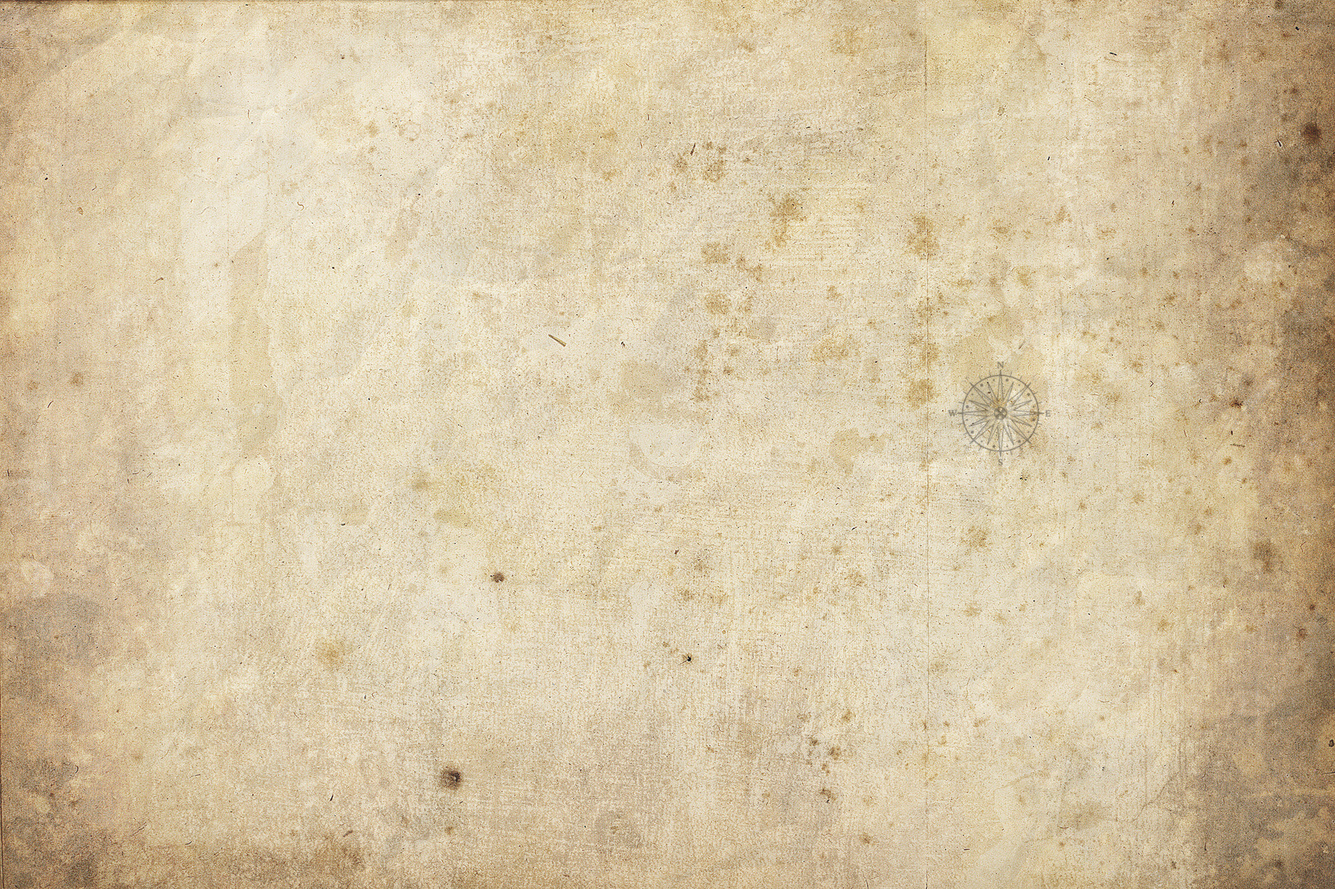
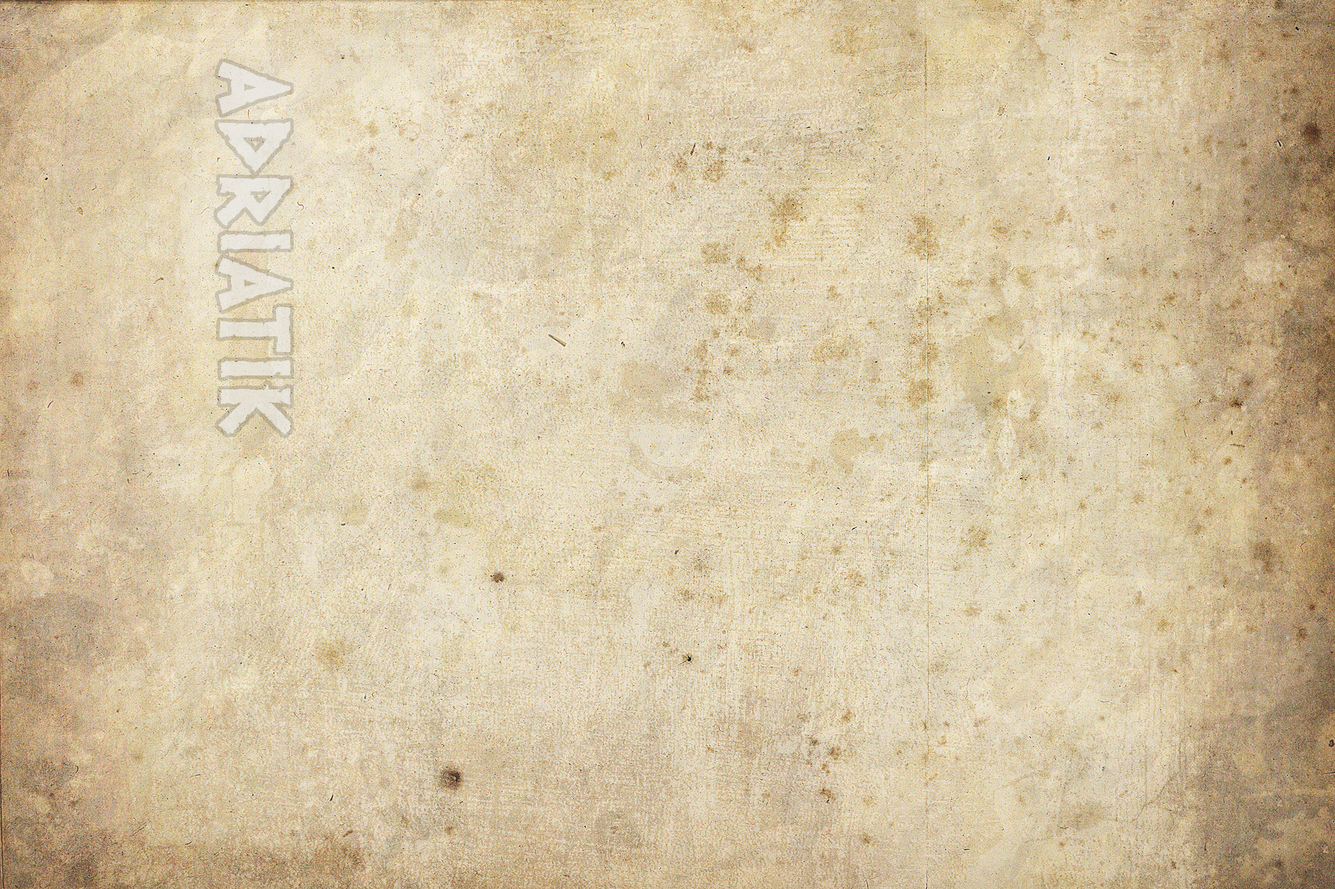
update global design

Changed region(s): [[0.155, 0.0615, 0.217, 0.4921], [0.713, 0.3998, 0.775, 0.5229]]

diff --git a/src/app/components/bidPanel/bidPanel.html b/src/app/components/bidPanel/bidPanel.html
@@ -1,27 +1,35 @@
 <div class="bidPanel">
-  <div>phase : {{game.phase}}</div>
-  <div ng-repeat="player in noBidPlayers()">{{player.name}}</div>
-  <div class="separator"></div>
-  <div ng-repeat="god in game.currentGods"
-       class="{{god.name}} god god-{{god.color}}"
-       ng-click="onGodClick(god)"
-    >
-    <div class="god-avatar">{{god.name}}</div>
-    <div ng-show="god !== God.Apollon">joueur : {{game.getPlayer(god).name}}{{god.bid ? ', '+god.bid.gold+' pièces' : ''}}</div>
-    <div ng-show="god === God.Apollon">joueurs : {{god.playerNames.join(', ')}}</div>
-  </div>
-  <div ng-show="god">
-    <div>Valeur d'enchère</div>
-    <div ng-repeat="value in getBidValues()" ng-click="placeBid(value)" class="bid-value coin">{{value}}</div>
-    <div class="bid-value custom coin">
-      <input type="text" ng-model="customBidValue" />
-      <input type="button" value="OK" ng-click="placeCustomBid()"/>
+    <div ng-repeat="god in game.currentGods"
+         class="{{god.name}} god god-{{god.color}}"
+         ng-click="onGodClick(god)"
+            >
+        <div class="god-avatar"></div>
+        <p class="god-name">{{god.name}}</p>
+        <p class="god-bidding" ng-show="god !== God.Apollon">
+            {{game.getPlayer(god).name}}{{god.bid ? ', '+god.bid.gold+' pièces' : ''}}
+        </p>
     </div>
-  </div>
-  <div class="separator"></div>
-  <div>Joueur courant : {{game.currentPlayer.name}}</div>
-  <div ng-show="game.phase === Phases.actions">
-    <input type="button" value="Fin de tour" ng-click="endTurn()"/>
-  </div>
-  <div id="adriatik">Adriatik</div>
+
+    <div>
+        <h2>Phase : {{game.phase}}</h2>
+        <ol>
+            <li ng-repeat="player in noBidPlayers()">{{player.name}}</li>
+        </ol>
+    </div>
+
+    <div ng-show="god === God.Apollon">joueurs : {{god.playerNames.join(', ')}}</div>
+    <div class="bid-form" ng-show="god">
+        <div>Valeur d'enchère</div>
+        <div ng-repeat="value in getBidValues()" ng-click="placeBid(value)" class="bid-value coin">{{value}}</div>
+        <div class="god-bidding-value custom">
+            <input class="god-bidding-value" type="number" min="customBidValue" ng-model="customBidValue"/>
+            <input type="button" value="Enchérir" ng-click="placeCustomBid()"/>
+        </div>
+    </div>
+    <div class="message">
+        <div class="current-player">Au tour de {{game.currentPlayer.name}} de jouer</div>
+        <div ng-show="game.phase === Phases.actions">
+            <input type="button" value="Fin de tour" ng-click="endTurn()"/>
+        </div>
+    </div>
 </div>

diff --git a/src/app/components/bidPanel/bidPanel.scss b/src/app/components/bidPanel/bidPanel.scss
@@ -1,16 +1,15 @@
 .bidPanel {
-  color: white;
+  color: black;
   position: absolute;
   left: 0;
   width: 300px;
   height: 100%;
   border-right: #563f39 solid 5px;
-  /*background: linear-gradient(to left, $bid-color-1 , $bid-color-2); /* Standard syntax */
   background: url(images/map.jpg) top right;
   padding: 10px;
 }
 .bidPanel .god {
-  color: black;
+  color: white;
   cursor: pointer;
   padding: 10px;
   height: 100px;
@@ -18,6 +17,7 @@
   border-radius: 50px 50px;
 }
 .bidPanel .god-avatar {
+  float:  left;
   height: 80px;
   width: 80px;
   background-color:  white;
@@ -26,8 +26,8 @@
   padding: 30px 0 0 0;
   text-align: center;
 }
-
 .bidPanel .god-white {
+  color: black;
   background-color: #f3f3f3;
 }
 .bidPanel .god-black {
@@ -46,7 +46,20 @@
   background-color: #ffc931;
 }
 .bidPanel .god div {
-  display: inline-block;
+  display: table-cell;
+  vertical-align: top;
+}
+.bidPanel .god p {
+  float:  left;
+  font-size: 2em;
+  padding: 3px 0 0 10px;
+}
+.bidPanel p.god-bidding {
+  font-size: 1em;
+  padding: 0 0 0 10px;
+}
+.bidPanel .god-bidding-value {
+  width: 40px;
 }
 .bidPanel .separator {
   margin-bottom: 20px;
@@ -70,14 +83,15 @@
   height: 2em;
   text-align: center;
   padding-top: 0.3em;
-  background-color: yellow;
+  background-color: #e3cca0;
   border: black solid 1px;
   border-radius: 3em;
 }
-#adriatik {
-  font-size: 10em;
-  transform: rotate(90deg);
-  transform-origin: right top 0;
-  margin: -500px 0 0 470px;
-  opacity: 0.5;
+.message {
+  width: 280px;
+  height: 100px;
+  background-color: white;
+  border: 2px solid black;
+  border-radius: 20px;
+  padding: 10px;
 }

diff --git a/src/app/components/playerPanel/playerPanel.scss b/src/app/components/playerPanel/playerPanel.scss
@@ -51,12 +51,13 @@
 
 .player-panel .infos {
   padding: 0;
+  margin: 0 0 0 300px;
   height: 170px;
 }
 
 .player-panel .infos h2 {
   float: left;
-  color: black;
+  color: white;
   width: 120px;
   height: 120px;
   background: url(images/legionnaire.jpg) 10px 10px white no-repeat;
@@ -67,7 +68,7 @@
 }
 
 .player-panel .infos div {
-  padding: 0 30px;
+  padding: 0 10px;
   height: 100%;
 }
 

diff --git a/src/app/index.scss b/src/app/index.scss
@@ -25,7 +25,7 @@ $icon-font-path: "../../bower_components/bootstrap-sass/assets/fonts/bootstrap/"
 
 body {
   font-family: roman !important;
-  background: url(images/map.jpg) top left $sea !important;
+  background: url(images/map.jpg) top left transparent;
 }
 /**
  *  Do not remove the comments below. It's the markers used by wiredep to inject
